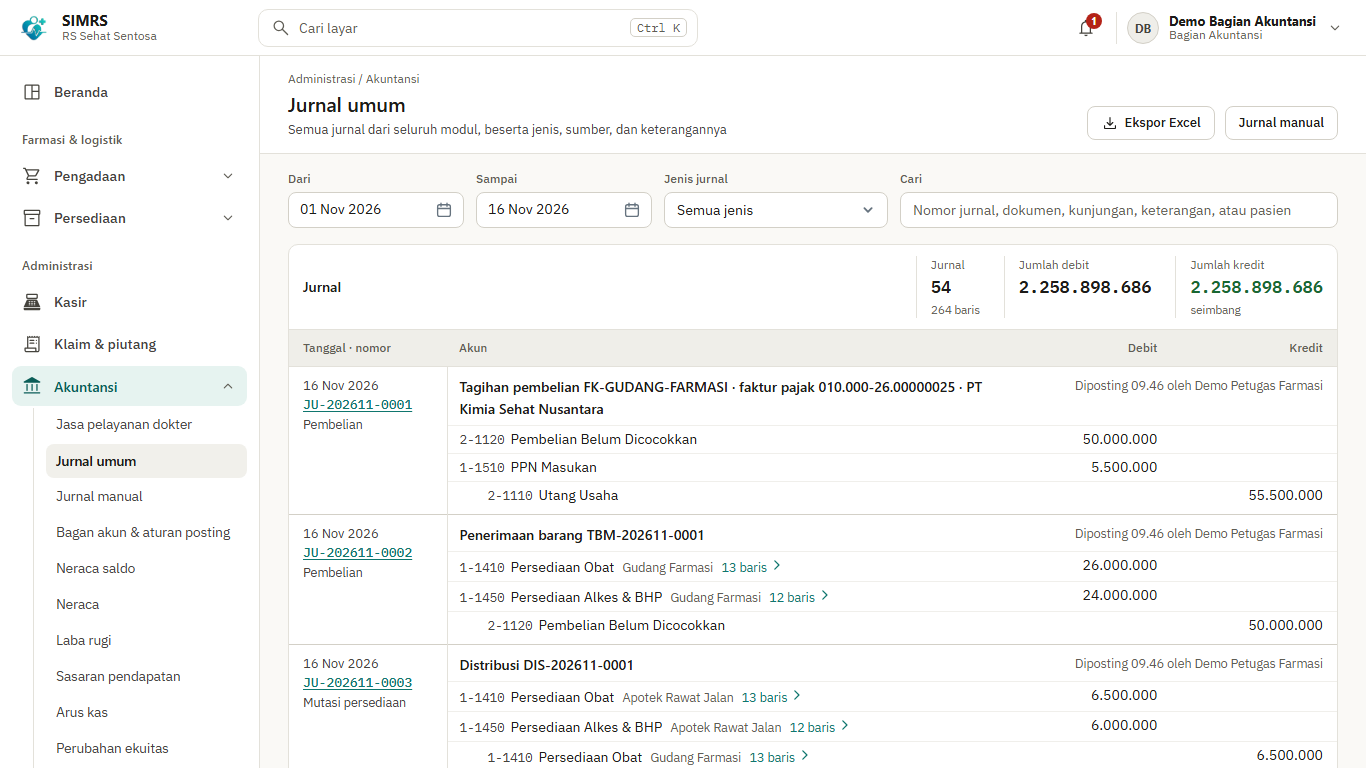
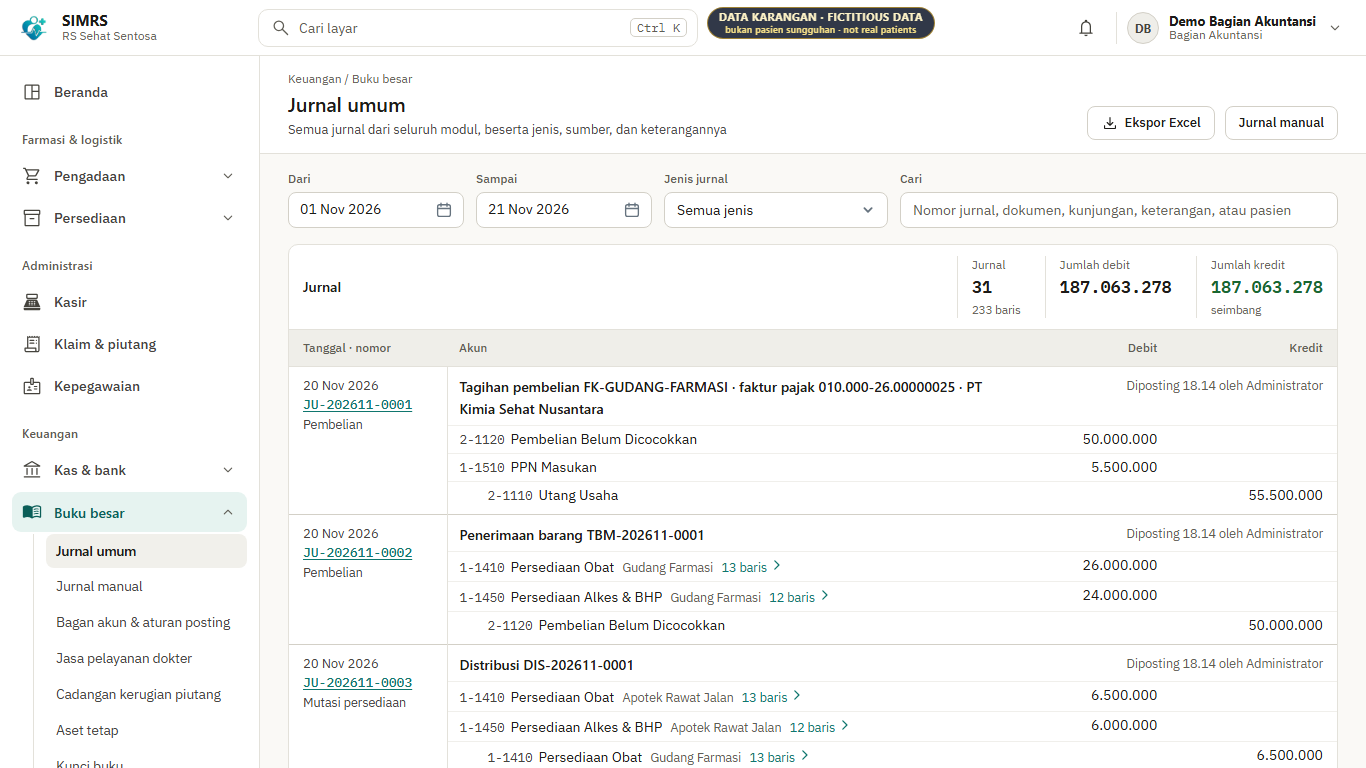
Release 2026.11.21
First release of the trial package. README re-measured on 21 Nov 2026 and
screenshots retaken for the nine screens that changed; the tester guide
follows the current settings menu.

diff --git a/README.md b/README.md
@@ -57,7 +57,11 @@ ke SATUSEHAT).
 ## Tangkapan layar
 
 Semua data pada gambar adalah karangan. Pasien dan nomor rekam medisnya dibuat acak, dan
-dokternya tenaga kesehatan uji milik Kemenkes atau karangan. Gambar diambil dari versi 2026.11.16.1, kecuali pesanan pembelian dari 2026.11.16.2.
+dokternya tenaga kesehatan uji milik Kemenkes atau karangan. Gambar diambil pada 16 sampai 21 November 2026.
+Sembilan layar yang tampilannya berubah sejak 16 November difoto ulang dari versi 2026.11.21: peringatan alergi,
+stok, utang usaha, jurnal umum, aset tetap, penyusutan, neraca, laba rugi, dan PPN keluaran. Menu samping pada
+gambar lain, terutama bidang remunerasi dan pajak, masih memakai pengelompokan lama yang sejak 20 November dipecah
+menjadi bagian Administrasi dan Keuangan.
 
 ### Medis
 
@@ -148,7 +152,7 @@ dokternya tenaga kesehatan uji milik Kemenkes atau karangan. Gambar diambil dari
 
 ## Yang sudah didukung
 
-Lebih dari 200 layar, dikelompokkan dalam 25 modul di enam bagian menu. Menu hanya
+Lebih dari 200 layar, dikelompokkan dalam modul menurut bagian menunya. Menu hanya
 menampilkan layar yang boleh dibuka peran Anda.
 
 | Bagian | Yang bisa dikerjakan |
@@ -156,7 +160,8 @@ menampilkan layar yang boleh dibuka peran Anda.
 | **Pelayanan** | **Pendaftaran** (pasien baru, penggabungan berkas ganda, kontrol ulang, rencana rawat inap, SEP BPJS). **Antrean** poliklinik dan papan ruang tunggu. **IGD** (triase, pasien tak dikenal, keputusan dokter). **Rawat inap** (CPPT, papan tempat tidur, obat stok ruangan). **Kamar operasi**, **kamar bersalin**, asuhan kehamilan dan nifas. **Register** TB, HIV, dan penyakit lain. **Rujukan** masuk dan keluar. **Rekam medis**: SOAP, diagnosis ICD-10, alergi, resume medis, adendum, lampiran pindaian, persetujuan tindakan, koding, sertifikat kematian |
 | **Penunjang** | **Laboratorium** (spesimen, nilai rujukan per kelompok umur, nilai kritis, antarmuka alat). **Radiologi** (worklist DICOM). **Bank darah**. **Gizi** (asuhan gizi terstandar). **Rehabilitasi medik**. **Sterilisasi pusat** dan **binatu** |
 | **Farmasi dan logistik** | **Apotek**: kaji resep, racikan, alat kesehatan, penjualan bebas, stok dilacak per batch dan diambil menurut tanggal kedaluwarsa terdekat. **Pengadaan**: permintaan, pesanan, persetujuan berjenjang, utang usaha, retur. **Persediaan**: penerimaan, distribusi ke depo, stok opname, penelusuran batch |
-| **Administrasi** | **Kasir**: tagihan, titipan pasien, titipan penunjang. **Klaim dan piutang**: klaim penjamin, INA-CBG, pelunasan, umur piutang. **Akuntansi**: buku besar menurut PSAK, jurnal otomatis dan manual, neraca saldo, neraca, laba rugi per lini, PPN keluaran, PPh 21, aset tetap dan penyusutan, kunci buku. **Remunerasi**: kebijakan jasa pelayanan (bobot tiap peran per layanan, porsi jasa BPJS per lini) dan jasa pelayanan dokter, yang dicatat saat tagihan terbit (BPJS: saat klaim dibayar). **Kepegawaian**: berkas pegawai, skala gaji, daftar gaji, THR, PPh 21 beserta berkas untuk Coretax |
+| **Administrasi** | **Kasir**: tagihan, titipan pasien, titipan penunjang. **Klaim dan piutang**: klaim penjamin, INA-CBG, pelunasan, umur piutang. **Kepegawaian**: berkas pegawai, skala gaji, daftar gaji, THR, PPh 21 beserta berkas untuk Coretax |
+| **Keuangan** | **Kas dan bank**: bukti kas, rekening, transfer antar-rekening, rekonsiliasi bank, pinjaman bank. **Buku besar** menurut PSAK: jurnal otomatis dan manual, bagan akun dan aturan posting, cadangan kerugian piutang, aset tetap dan penyusutan, kunci buku. **Remunerasi**: kebijakan jasa pelayanan (bobot tiap peran per layanan, porsi jasa BPJS per lini) dan jasa pelayanan dokter, yang dicatat saat tagihan terbit (BPJS: saat klaim dibayar). **Pajak**: PPN keluaran dan masukan, SPT Masa PPN, PPh 21 masa, PPh 23 dan 4 ayat (2), rekonsiliasi fiskal, pajak tangguhan. **Laporan keuangan**: neraca saldo, neraca, laba rugi per lini layanan, arus kas, perubahan ekuitas, sasaran pendapatan |
 | **Manajemen dan mutu** | Dasbor direksi, indikator mutu, laporan SIRS (RL), insiden keselamatan pasien, pencegahan infeksi (PPI), kecelakaan kerja (K3RS) |
 | **Sistem** | Master data (tenaga kesehatan, jadwal praktik, layanan dan tarif, katalog obat dan barang, pemasok, penjamin, formulir asesmen, dan lainnya). Pengguna, peran dan izin, jejak audit, pemantauan integrasi, kesehatan cadangan, masa simpan arsip |
 
@@ -174,9 +179,9 @@ Dua hal berlaku untuk semuanya:
 
 Kolom *Keadaan* menjawab satu pertanyaan: **seberapa jauh integrasinya sudah dibuktikan.**
 
-| Integrasi | Fungsinya | Keadaan (16 Nov 2026) |
+| Integrasi | Fungsinya | Keadaan (21 Nov 2026) |
 |---|---|---|
-| **SATUSEHAT** (HL7 FHIR R4) | Data master dan data klinis tiap kunjungan, resume medis, tagihan. Di lembar kerja ada juga tombol **SATUSEHAT Rekam Medis (SSRME)**: minta persetujuan pasien, akses darurat IGD, dan pembukaan rekam medis nasional oleh dokter penanggung jawab | **Terbukti di sandbox Kemenkes.** Produksi menunggu registrasi sistem rekam medis ke Kemenkes dan kredensial produksi |
+| **SATUSEHAT** (HL7 FHIR R4) | Data master dan data klinis tiap kunjungan, resume medis, tagihan. Di loket pendaftaran, NIK pasien dicek ke MPI SATUSEHAT dan didaftarkan di sana bila belum ada. Di lembar kerja ada juga tombol **SATUSEHAT Rekam Medis (SSRME)**: minta persetujuan pasien, akses darurat IGD, dan pembukaan rekam medis nasional oleh dokter penanggung jawab | **Terbukti di sandbox Kemenkes.** Produksi menunggu registrasi sistem rekam medis ke Kemenkes dan kredensial produksi |
 | **SATUSEHAT Webhook** | Menerima jawaban penjamin (eligibilitas, persetujuan, hasil klaim) | Penerima dan pembuka pesan terenkripsi (HPKE) ada, diuji dengan vektor RFC 9180. **Kiriman sungguhan dari Kemenkes belum pernah terlihat** |
 | **DICOM Router Kemenkes** | Menerbitkan `ImagingStudy` dari citra modalitas | **Terbukti di staging** (26 Sep 2026). Router dipasang terpisah |
 | **BPJS VClaim** | Kepesertaan, rujukan, SEP, surat kontrol, rencana kontrol, PRB | Dibangun menurut dokumentasi resmi, alamatnya diadu ke gerbang BPJS, diuji dengan simulator. **Belum dengan kredensial rumah sakit sungguhan** |
@@ -225,7 +230,7 @@ terpenuhi**.
 
 ## Bagaimana kami membuktikannya
 
-Angka di bawah diukur pada **16 November 2026** dan akan basi. Tanggalnya sengaja ditulis. Tangkapan dasbor Kemenkes
+Angka di bawah diukur pada **21 November 2026** dan akan basi. Tanggalnya sengaja ditulis. Tangkapan dasbor Kemenkes
 di bawahnya bertanggal sendiri.
 
 | Yang diukur | Hasil | Cara |
@@ -233,7 +238,7 @@ di bawahnya bertanggal sendiri.
 | Langkah interoperabilitas SATUSEHAT yang jadi tugas sistem rumah sakit | **499 dari 526** terbukti diterima gerbang sandbox. 27 belum | Daftar langkah resmi Kemenkes per modul (34 modul), diadu mesin dengan bukti dari gerbang. 61 langkah lain dikerjakan pihak lain |
 | Jenis pesan yang pernah diterima gerbang | 121 | Berkas bukti ditulis mesin dari antrean sesudah rantai dijalankan |
 | Jenis resource di dasbor Monitoring Integrasi SATUSEHAT (sandbox) | **19 dari 19** terisi, rentang 27 Sep sampai 27 Okt 2026, diperbarui 27 Okt 2026 pukul 00.01 WIB | Tangkapan dasbor milik Kemenkes di sisi mereka, dibaca sesudah seluruh skenario dan tur dijalankan. Gambarnya di bawah |
-| Tur otomatis | **441 tes** di 37 berkas | Peramban sungguhan yang menekan tombol seperti petugas: tes yang hijau berarti tombolnya benar-benar bekerja |
+| Tur otomatis | **462 tes** di 41 berkas | Peramban sungguhan yang menekan tombol seperti petugas: tes yang hijau berarti tombolnya benar-benar bekerja |
 
 <img src="gambar/monitoring-satusehat-sandbox.png" alt="Dasbor Monitoring Integrasi SATUSEHAT di sandbox: seluruh 19 jenis resource terisi" width="860">
 
@@ -288,7 +293,7 @@ dan bongkar ke folder biasa. Satu zip yang sama dipakai di Windows dan Linux.
 data dan menanam katalog. Selesai bila konsol menulis `Now listening on: http://localhost:5000`.
 
 **6. Buka <http://localhost:5000>**, masuk sebagai `admin`, ikuti ganti sandi dan pasang
-aplikasi autentikator. Lalu buka **Pengaturan → Data contoh** dan tekan **Isi Data Contoh**.
+aplikasi autentikator. Lalu buka **Pengaturan → Rumah sakit & akses → Data contoh** dan tekan **Isi Data Contoh**.
 Dalam kira-kira satu menit terisi poliklinik, dokter, jadwal, stok, 40 pasien karangan, dan
 satu akun per peran. Layar itu menampilkan daftar akunnya.
 
@@ -353,9 +358,9 @@ beserta pekerjaan bagian akuntansinya.
 | **AK1** | Akuntansi: jurnal yang lahir dari kegiatan rumah sakit, dari obat diterima sampai klaim BPJS dibayar, dibuka dengan neraca, laba rugi, dan stok awal bulan | [Tonton](https://youtu.be/O_5LYMKMhAQ), 15 menit |
 | **AK2** | Akuntansi: utang pemasok, aset tetap, gaji, jasa dokter, dan penyusutan, ditutup dengan neraca dan laba rugi dua periode serta kartu stok | [Tonton](https://youtu.be/8NDDQrqOtHM), 11 menit |
 
-S0 sampai S4 direkam pada 15 dan 16 November 2026 dari versi yang hampir sama dengan rilis 2026.11.16.1, dan
-S5 dari versi yang hampir sama dengan rilis 2026.11.16.2, sesudah tampilannya banyak berubah. AK1 dan AK2
-direkam 3 November 2026, jadi beberapa layarnya dapat sedikit berbeda dari versi terbaru.
+S0 sampai S5 direkam pada 15 dan 16 November 2026, dan AK1 dan AK2 pada 3 November 2026. Tampilan sesudahnya
+masih berubah (formulir dengan kolom keterangan di kanan, spanduk penahanan alergi di puncak dialog resep, menu
+keuangan yang dipecah), jadi beberapa layar di video tampak berbeda dari rilis ini.
 
 Video **tidak membuktikan pengiriman ke Kemenkes**. Integrasi dimatikan pada rekamannya.
 

diff --git a/docs/PANDUAN.md b/docs/PANDUAN.md
@@ -73,8 +73,8 @@ Periksa hasilnya dengan `dotnet --list-runtimes`: harus ada baris
    Microsoft Authenticator, atau sejenisnya) dengan memindai kode QR di layar. Simpan delapan
    kode pemulihan yang tampil. Sesudahnya, tiap kali `admin` masuk, sistem meminta enam digit
    dari ponsel itu.
-6. **Isi data contoh** (disarankan): buka **Pengaturan → Data contoh**, lalu tekan **Isi Data
-   Contoh**. Dalam kira-kira satu menit basis data terisi poliklinik, dokter, jadwal, stok,
+6. **Isi data contoh** (disarankan): buka **Pengaturan → Rumah sakit & akses → Data contoh**, lalu
+   tekan **Isi Data Contoh**. Dalam kira-kira satu menit basis data terisi poliklinik, dokter, jadwal, stok,
    40 pasien karangan, dan satu akun per peran. Layar itu menampilkan daftar akun beserta
    sandinya.
 
@@ -93,11 +93,11 @@ aplikasi lalu hanya mengisinya.
   (dokter, perawat, kasir, apotek, dan seterusnya), dan berarti siapa pun yang bisa menjangkau
   aplikasi ini bisa masuk. Jangan membukanya ke jaringan yang tidak Anda percayai.
 - **Tanpa data contoh, aplikasi mulai dari kosong.** Administrator membuat akun di
-  **Pengaturan → Pengguna**, dan data dasar (poliklinik, tenaga kesehatan, layanan, tarif,
+  **Pengaturan → Rumah sakit & akses → Pengguna**, dan data dasar (poliklinik, tenaga kesehatan, layanan, tarif,
   obat) di **Master data**. Nama rumah sakit bawaannya *RS Sehat Sentosa*, beralamat
   karangan (*Jl. Nama Jalan, Kelurahan, Kecamatan, Kabupaten/Kota, Provinsi*) dan
   berlogo contoh; ketiganya tercetak di kop dokumen dan digantilah di
-  **Pengaturan → Profil rumah sakit**.
+  **Pengaturan → Rumah sakit & akses → Profil rumah sakit**.
 - **Sandi baru administrator tidak boleh memuat kata `admin`**, minimal 10 karakter, dan
   tidak boleh angka saja. Layar ganti sandi menyebutkan syarat mana yang belum terpenuhi.
 - **Autentikator hanya diwajibkan bagi akun pengelola pengguna** (`admin`). Akun demo per peran
@@ -111,7 +111,7 @@ aplikasi lalu hanya mengisinya.
 - **Integrasi ke luar mati bawaannya.** SATUSEHAT, BPJS, E-Klaim, SISRUTE, SIRANAP, alat
   laboratorium, dan DICOM Router baru bekerja bila Anda menyalakannya di `setelan.json` dan
   mengisi kredensialnya, yang diterbitkan Kemenkes dan BPJS, bukan oleh paket ini. Aplikasi
-  berjalan penuh tanpa semuanya. Statusnya terbaca di **Pengaturan → Antrean integrasi**,
+  berjalan penuh tanpa semuanya. Statusnya terbaca di **Pengaturan → Integrasi → Antrean integrasi**,
   beserta tombol **Uji** untuk memeriksa sambungannya.
 - **Mengakses dari komputer lain.** Lewat `http://localhost` di komputer yang sama, aplikasi
   tidak memerlukan sertifikat. Dari komputer lain, aplikasi **menolak masuk lewat HTTP** dan
@@ -190,6 +190,6 @@ skema**: setelah basis data dimutakhirkan, versi yang lebih lama menolak menyala
 | `Zona waktu sistem operasi … berbeda` | Ubah `TimeZone` di `setelan.json` (lihat di atas) |
 | Tidak bisa masuk, konsol menyebut `Akun administrator awal belum dikonfigurasi` | `InitialAdmin` → `Password` di `setelan.json` masih kosong. Isi, lalu jalankan ulang. Akun hanya dibuat bila belum ada satu pengguna pun |
 | Layar masuk menyebut aplikasi dilayani lewat HTTP | Anda membuka lewat alamat selain `localhost`. Buka `http://localhost:5000`, atau pasang HTTPS |
-| **Pengaturan → Data contoh** menyebut penanaman tidak dinyalakan | `Hospital` → `DemoData` → `Enabled` di `setelan.json` bernilai `false` atau terhapus. Jadikan `true`, lalu jalankan ulang |
+| **Pengaturan → Rumah sakit & akses → Data contoh** menyebut penanaman tidak dinyalakan | `Hospital` → `DemoData` → `Enabled` di `setelan.json` bernilai `false` atau terhapus. Jadikan `true`, lalu jalankan ulang |
 | Data contoh ditolak karena basis data sudah berisi pasien | Data contoh hanya untuk basis data kosong. Ganti nama basis data di `ConnectionStrings`, lalu jalankan ulang |
 | `address already in use` | Port 5000 dipakai program lain. Ubah `Urls` di `setelan.json`, mis. `http://localhost:5050` |
